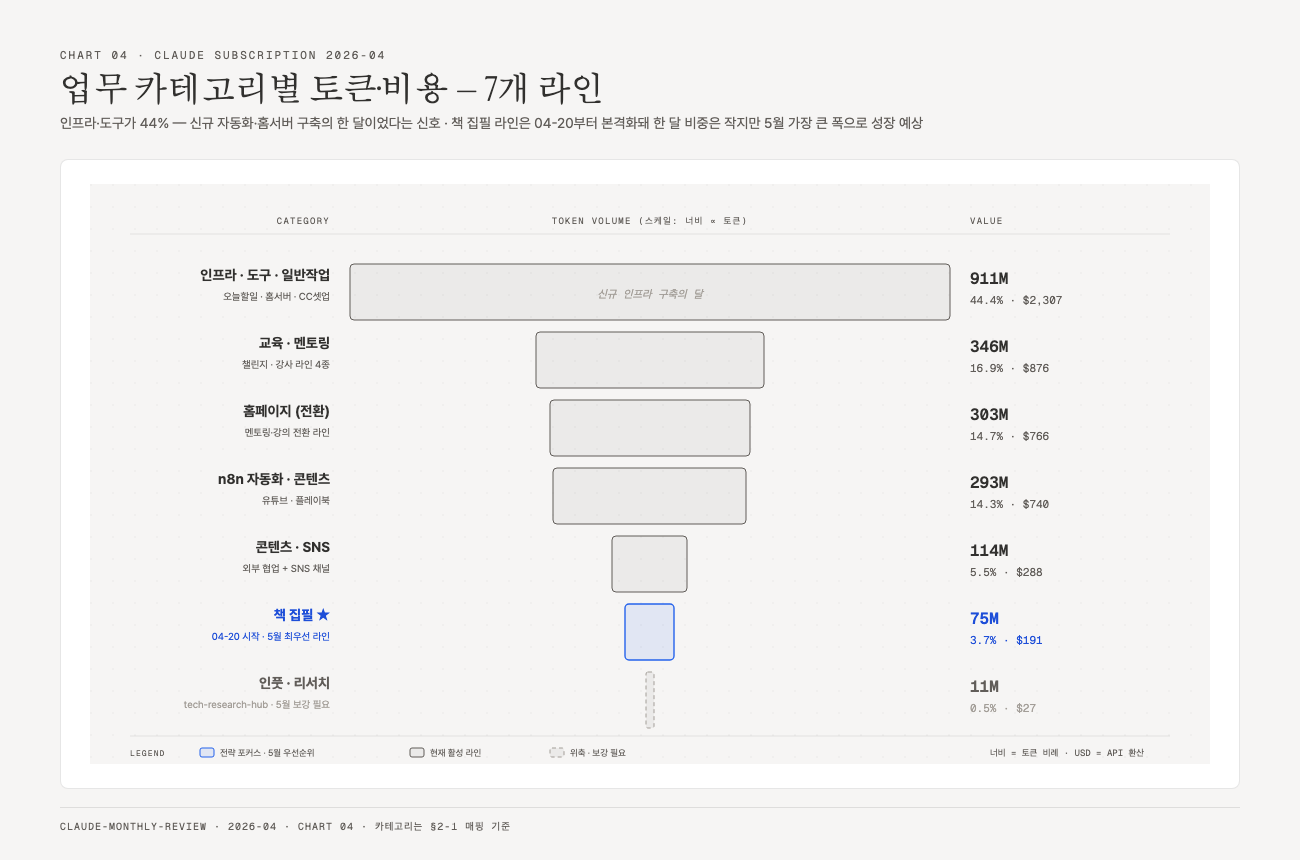
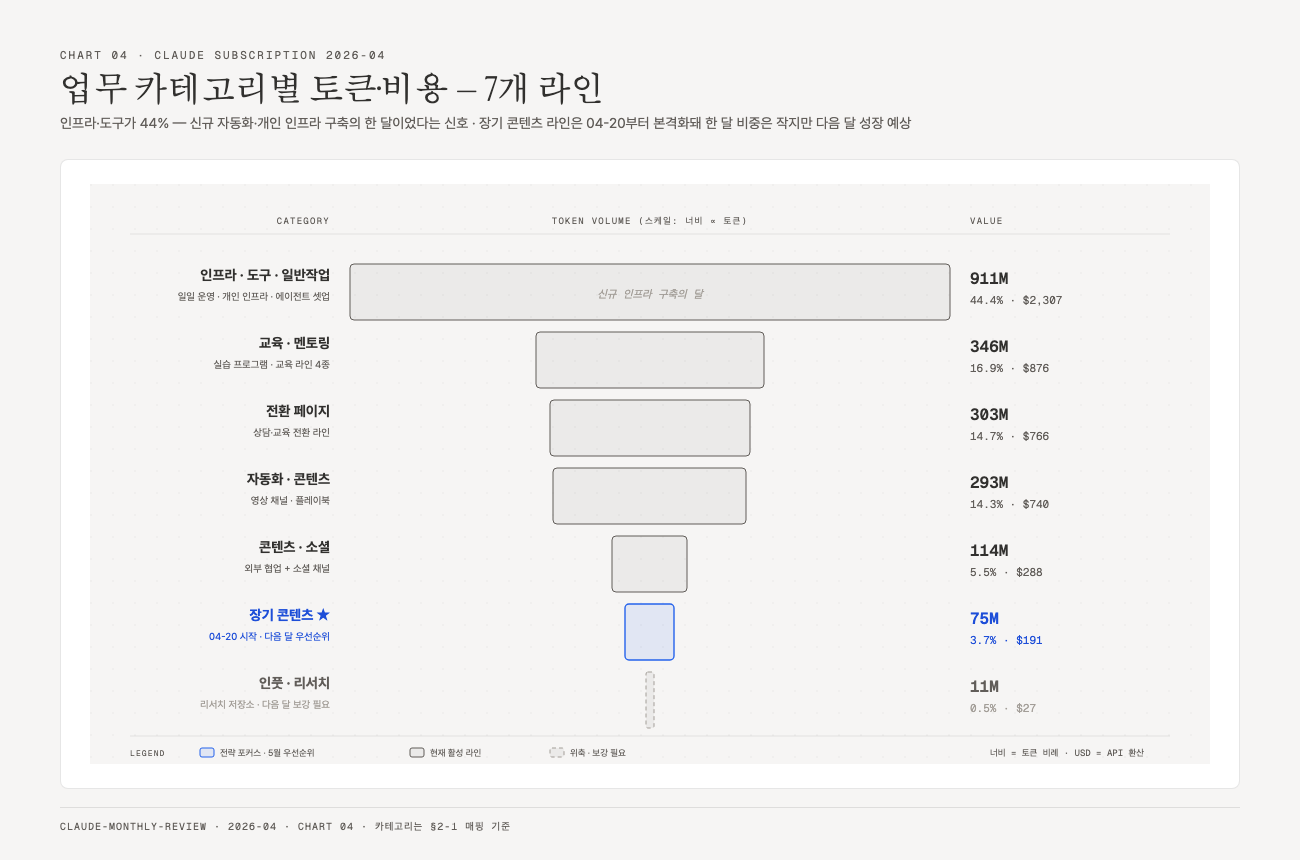
Further anonymize Claude monthly review

diff --git a/docs/diagrams/04-category-funnel.html b/docs/diagrams/04-category-funnel.html
@@ -22,7 +22,7 @@ svg{display:block;width:100%;height:auto;max-width:1120px;margin:0 auto}
 <div class="wrap">
   <p class="eyebrow">CHART 04 · CLAUDE SUBSCRIPTION 2026-04</p>
   <h1>업무 카테고리별 토큰·비용 — 7개 라인</h1>
-  <p class="sub">인프라·도구가 44% — 신규 자동화·홈서버 구축의 한 달이었다는 신호 · 책 집필 라인은 04-20부터 본격화돼 한 달 비중은 작지만 5월 가장 큰 폭으로 성장 예상</p>
+  <p class="sub">인프라·도구가 44% — 신규 자동화·개인 인프라 구축의 한 달이었다는 신호 · 장기 콘텐츠 라인은 04-20부터 본격화돼 한 달 비중은 작지만 다음 달 성장 예상</p>
   <div class="card">
     <svg viewBox="0 0 1120 580" xmlns="http://www.w3.org/2000/svg" role="img">
       <defs>
@@ -45,7 +45,7 @@ svg{display:block;width:100%;height:auto;max-width:1120px;margin:0 auto}
 
       <!-- Row 1: 인프라·도구·일반작업 911M / 44.4% / $2,307 — width 600 -->
       <text x="240" y="96" font-family="Pretendard,sans-serif" font-size="14" font-weight="700" fill="#31302e" text-anchor="end">인프라 · 도구 · 일반작업</text>
-      <text x="240" y="116" font-family="Pretendard,sans-serif" font-size="10" fill="#615d59" text-anchor="end">오늘할일 · 홈서버 · CC셋업</text>
+      <text x="240" y="116" font-family="Pretendard,sans-serif" font-size="10" fill="#615d59" text-anchor="end">일일 운영 · 개인 인프라 · 에이전트 셋업</text>
       <rect x="260" y="80" width="600" height="56" rx="4" fill="rgba(49,48,46,0.05)" stroke="#615d59" stroke-width="1"/>
       <text x="560" y="114" font-family="Geist Mono,monospace" font-size="11" fill="#a39e98" text-anchor="middle" font-style="italic">신규 인프라 구축의 달</text>
       <text x="880" y="100" font-family="Geist Mono,monospace" font-size="16" font-weight="600" fill="#31302e">911M</text>
@@ -53,42 +53,42 @@ svg{display:block;width:100%;height:auto;max-width:1120px;margin:0 auto}
 
       <!-- Row 2: 교육·멘토링 346M / 16.9% / $876 — width 228 -->
       <text x="240" y="164" font-family="Pretendard,sans-serif" font-size="14" font-weight="700" fill="#31302e" text-anchor="end">교육 · 멘토링</text>
-      <text x="240" y="184" font-family="Pretendard,sans-serif" font-size="10" fill="#615d59" text-anchor="end">챌린지 · 강사 라인 4종</text>
+      <text x="240" y="184" font-family="Pretendard,sans-serif" font-size="10" fill="#615d59" text-anchor="end">실습 프로그램 · 교육 라인 4종</text>
       <rect x="446" y="148" width="228" height="56" rx="4" fill="rgba(49,48,46,0.05)" stroke="#615d59" stroke-width="1"/>
       <text x="880" y="168" font-family="Geist Mono,monospace" font-size="16" font-weight="600" fill="#31302e">346M</text>
       <text x="880" y="188" font-family="Geist Mono,monospace" font-size="11" fill="#615d59">16.9% · $876</text>
 
-      <!-- Row 3: ggplab 홈페이지 (전환) 303M / 14.7% / $766 — width 200 -->
-      <text x="240" y="232" font-family="Pretendard,sans-serif" font-size="14" font-weight="700" fill="#31302e" text-anchor="end">홈페이지 (전환)</text>
-      <text x="240" y="252" font-family="Pretendard,sans-serif" font-size="10" fill="#615d59" text-anchor="end">멘토링·강의 전환 라인</text>
+      <!-- Row 3: 전환 페이지 303M / 14.7% / $766 — width 200 -->
+      <text x="240" y="232" font-family="Pretendard,sans-serif" font-size="14" font-weight="700" fill="#31302e" text-anchor="end">전환 페이지</text>
+      <text x="240" y="252" font-family="Pretendard,sans-serif" font-size="10" fill="#615d59" text-anchor="end">상담·교육 전환 라인</text>
       <rect x="460" y="216" width="200" height="56" rx="4" fill="rgba(49,48,46,0.05)" stroke="#615d59" stroke-width="1"/>
       <text x="880" y="236" font-family="Geist Mono,monospace" font-size="16" font-weight="600" fill="#31302e">303M</text>
       <text x="880" y="256" font-family="Geist Mono,monospace" font-size="11" fill="#615d59">14.7% · $766</text>
 
-      <!-- Row 4: n8n 자동화·콘텐츠 293M / 14.3% / $740 — width 193 -->
-      <text x="240" y="300" font-family="Pretendard,sans-serif" font-size="14" font-weight="700" fill="#31302e" text-anchor="end">n8n 자동화 · 콘텐츠</text>
-      <text x="240" y="320" font-family="Pretendard,sans-serif" font-size="10" fill="#615d59" text-anchor="end">유튜브 · 플레이북</text>
+      <!-- Row 4: 자동화·콘텐츠 293M / 14.3% / $740 — width 193 -->
+      <text x="240" y="300" font-family="Pretendard,sans-serif" font-size="14" font-weight="700" fill="#31302e" text-anchor="end">자동화 · 콘텐츠</text>
+      <text x="240" y="320" font-family="Pretendard,sans-serif" font-size="10" fill="#615d59" text-anchor="end">영상 채널 · 플레이북</text>
       <rect x="463" y="284" width="193" height="56" rx="4" fill="rgba(49,48,46,0.05)" stroke="#615d59" stroke-width="1"/>
       <text x="880" y="304" font-family="Geist Mono,monospace" font-size="16" font-weight="600" fill="#31302e">293M</text>
       <text x="880" y="324" font-family="Geist Mono,monospace" font-size="11" fill="#615d59">14.3% · $740</text>
 
-      <!-- Row 5: 콘텐츠·SNS 114M / 5.5% / $288 — width 75 -->
-      <text x="240" y="368" font-family="Pretendard,sans-serif" font-size="14" font-weight="700" fill="#31302e" text-anchor="end">콘텐츠 · SNS</text>
-      <text x="240" y="388" font-family="Pretendard,sans-serif" font-size="10" fill="#615d59" text-anchor="end">외부 협업 + SNS 채널</text>
+      <!-- Row 5: 콘텐츠·소셜 114M / 5.5% / $288 — width 75 -->
+      <text x="240" y="368" font-family="Pretendard,sans-serif" font-size="14" font-weight="700" fill="#31302e" text-anchor="end">콘텐츠 · 소셜</text>
+      <text x="240" y="388" font-family="Pretendard,sans-serif" font-size="10" fill="#615d59" text-anchor="end">외부 협업 + 소셜 채널</text>
       <rect x="522" y="352" width="75" height="56" rx="4" fill="rgba(49,48,46,0.05)" stroke="#615d59" stroke-width="1"/>
       <text x="880" y="372" font-family="Geist Mono,monospace" font-size="16" font-weight="600" fill="#31302e">114M</text>
       <text x="880" y="392" font-family="Geist Mono,monospace" font-size="11" fill="#615d59">5.5% · $288</text>
 
-      <!-- Row 6: 책 집필 75M / 3.7% / $191 — width 49 — FOCAL -->
-      <text x="240" y="436" font-family="Pretendard,sans-serif" font-size="14" font-weight="700" fill="#1D4ED8" text-anchor="end">책 집필 ★</text>
-      <text x="240" y="456" font-family="Pretendard,sans-serif" font-size="10" fill="#1D4ED8" text-anchor="end">04-20 시작 · 5월 최우선 라인</text>
+      <!-- Row 6: 장기 콘텐츠 75M / 3.7% / $191 — width 49 — FOCAL -->
+      <text x="240" y="436" font-family="Pretendard,sans-serif" font-size="14" font-weight="700" fill="#1D4ED8" text-anchor="end">장기 콘텐츠 ★</text>
+      <text x="240" y="456" font-family="Pretendard,sans-serif" font-size="10" fill="#1D4ED8" text-anchor="end">04-20 시작 · 다음 달 우선순위</text>
       <rect x="535" y="420" width="49" height="56" rx="4" fill="rgba(37,99,235,0.10)" stroke="#2563EB" stroke-width="1.4"/>
       <text x="880" y="440" font-family="Geist Mono,monospace" font-size="16" font-weight="600" fill="#1D4ED8">75M</text>
       <text x="880" y="460" font-family="Geist Mono,monospace" font-size="11" fill="#1D4ED8">3.7% · $191</text>
 
       <!-- Row 7: 인풋·리서치 11M / 0.5% / $27 — width 7 -->
       <text x="240" y="504" font-family="Pretendard,sans-serif" font-size="14" font-weight="700" fill="#615d59" text-anchor="end">인풋 · 리서치</text>
-      <text x="240" y="524" font-family="Pretendard,sans-serif" font-size="10" fill="#a39e98" text-anchor="end">tech-research-hub · 5월 보강 필요</text>
+      <text x="240" y="524" font-family="Pretendard,sans-serif" font-size="10" fill="#a39e98" text-anchor="end">리서치 저장소 · 다음 달 보강 필요</text>
       <rect x="556" y="488" width="8" height="56" rx="2" fill="rgba(49,48,46,0.05)" stroke="#a39e98" stroke-width="1" stroke-dasharray="4,3"/>
       <text x="880" y="508" font-family="Geist Mono,monospace" font-size="16" font-weight="600" fill="#615d59">11M</text>
       <text x="880" y="528" font-family="Geist Mono,monospace" font-size="11" fill="#a39e98">0.5% · $27</text>

diff --git a/examples/monthly-claude-review/2026-04-anonymized.md b/examples/monthly-claude-review/2026-04-anonymized.md
@@ -1,7 +1,7 @@
 # Claude 구독 요금제 한 달 사용 보고서 — 2026-04 (익명화 공개판)
 
 > **분석 기간**: 2026-04-02 ~ 2026-05-01 (KST, 30일)
-> **데이터 출처**: ① Claude Code 세션 JSONL 파싱 ② Claude Code 빌트인 `/insights`
+> **데이터 출처**: ① Claude 세션 JSONL 파싱 ② Claude 빌트인 `/insights`
 > **공개 정책**: 프로젝트명·고객명·계약 조건은 마스킹, 구조적 수치(토큰·시간·USD)는 원본 유지.
 > **저자**: 1인 사업자 (교육·콘텐츠·자동화 라인 운영)
 
@@ -70,7 +70,7 @@ Claude 구독 요금제 첫 한 달, **약 20.5억 토큰 / API 환산 $5,199 / 
 | claude-sonnet-4-6 | 2.4% (49M) | 879 | 31 | 6 |
 | claude-haiku-4-5 | 2.1% (44M) | 680 | 21 | 4 |
 
-> 4월 중반 Opus 4.7 출시 이후 **압도적 의존**. Sonnet/Haiku 비중이 4.5%에 불과해, "판단형 작업은 Opus, 실행형은 Sonnet/Codex"라는 본인 원칙이 데이터상으로는 잘 안 지켜지는 중.
+> 4월 중반 고비용 모델 업데이트 이후 **압도적 의존**. 중간·저비용 모델 비중이 4.5%에 불과해, "판단형 작업은 고비용 모델, 실행형은 중간 비용 모델이나 보조 에이전트"라는 본인 원칙이 데이터상으로는 잘 안 지켜지는 중.
 
 ### 1-4. 시간대 패턴 (KST)
 
@@ -94,14 +94,14 @@ Claude 구독 요금제 첫 한 달, **약 20.5억 토큰 / API 환산 $5,199 / 
 
 | 날짜 | 토큰(M) | 주요 활동 |
 |------|:---:|------|
-| **04-20** (월) | **263** | 출판사 도서 계약서 회신 작성 — 단일 최대일 |
-| 04-28 (화) | 213 | 챌린지 사이트 구축 + 콘텐츠 라인 |
-| 04-30 (목) | 205 | 도서 집필 + 홈페이지 + 강사 |
-| 04-22 (수) | 170 | 콘텐츠 라인 집중 |
-| 04-17 (목) | 153 | 챌린지 사이트 + 멘토링 |
-| 04-21 (화) | 145 | 도서 + 챌린지 + 강사 |
-| 04-23 (수) | 137 | 홈페이지 + 콘텐츠 + SNS |
-| 04-06 (월) | 100 | 외부 콘텐츠 협업 + 리서치 |
+| **04-20** (월) | **263** | 장기 콘텐츠 계약 검토 — 단일 최대일 |
+| 04-28 (화) | 213 | 교육용 웹앱 구축 + 콘텐츠 라인 |
+| 04-30 (목) | 205 | 장기 콘텐츠 제작 + 전환 페이지 + 교육 자료 |
+| 04-22 (수) | 170 | 콘텐츠 운영 라인 집중 |
+| 04-17 (목) | 153 | 교육용 웹앱 + 멘토링 |
+| 04-21 (화) | 145 | 장기 콘텐츠 + 교육용 웹앱 + 교육 자료 |
+| 04-23 (수) | 137 | 전환 페이지 + 콘텐츠 + 소셜 채널 |
+| 04-06 (월) | 100 | 외부 협업 + 리서치 |
 
 ---
 
@@ -112,46 +112,46 @@ Claude 구독 요금제 첫 한 달, **약 20.5억 토큰 / API 환산 $5,199 / 
 | 카테고리 | 토큰(M) | 점유율 | 비용($) |
 |---------|:---:|:---:|:---:|
 | **인프라·도구·일반작업 ((home))** | 911 | 44.4% | 2,307 |
-| **교육·멘토링** (강의 플랫폼 4종 + 챌린지) | 346 | 16.9% | 876 |
-| **메인 사업체 홈페이지 (전환)** | 303 | 14.7% | 766 |
-| **자동화 콘텐츠 (유튜브)** | 293 | 14.3% | 740 |
-| **콘텐츠·SNS (실행)** | 114 | 5.5% | 288 |
-| **도서 집필 (출판사 계약)** | 75 | 3.7% | 191 |
+| **교육·멘토링** (교육 채널 4종 + 실습 프로그램) | 346 | 16.9% | 876 |
+| **전환 페이지** | 303 | 14.7% | 766 |
+| **자동화 콘텐츠** | 293 | 14.3% | 740 |
+| **콘텐츠·소셜 채널** | 114 | 5.5% | 288 |
+| **장기 콘텐츠 제작** | 75 | 3.7% | 191 |
 | **인풋·리서치** | 11 | 0.5% | 27 |
 
-> **관찰**: 교육·멘토링(16.9%) + 자동화 콘텐츠(14.3%) + 홈페이지(14.7%) = 45.9%. 이 셋이 **수익 직결 라인**. 도서 집필(3.7%)은 계약 수령 이후에만 활성화돼 실제로는 후반 2주 집중.
+> **관찰**: 교육·멘토링(16.9%) + 자동화 콘텐츠(14.3%) + 전환 페이지(14.7%) = 45.9%. 이 셋이 **수익 직결 라인**. 장기 콘텐츠 제작(3.7%)은 계약 수령 이후에만 활성화돼 실제로는 후반 2주 집중.
 
 ### 2-2. 프로젝트 Top 16 상세
 
 | # | 프로젝트 (익명화) | 토큰(M) | 세션 | 활성(분) | 카테고리 |
 |:--:|------|:---:|:--:|:---:|------|
-| 1 | (home) — 일반/cross-cutting | 826.6 | 117 | 1,795 | 일반/인프라/오늘할일 |
-| 2 | 메인 사업체 홈페이지 | 302.7 | 11 | 511 | 홈페이지 (전환) |
-| 3 | 유튜브 콘텐츠 라인 | 285.8 | 11 | 379 | 자동화 콘텐츠 |
-| 4 | 도서 챌린지 사이트 | 218.0 | 7 | 277 | 강의 플랫폼 챌린지 |
-| 5 | 외부 콘텐츠 협업 | 104.0 | 39 | 281 | 외부 콘텐츠 |
-| 6 | 도서 집필 (출판사) | 75.4 | 6 | 194 | 책 (전략 포커스) |
-| 7 | 강의 플랫폼 A (헬스케어 SQL) | 64.5 | 4 | 170 | 강사 |
-| 8 | 기업교육 B (HK GPT) | 55.1 | 4 | 92 | 강사 |
-| 9 | 작업 오케스트레이션 도구 | 49.7 | 3 | 138 | 도구 |
-| 10 | 홈서버 SSH 세션 | 19.0 | 1 | 52 | 인프라 |
-| 11 | 프레젠테이션 도구 | 16.0 | 4 | 54 | 도구 |
-| 12 | 리서치 허브 | 10.7 | 3 | 51 | 리서치 |
-| 13 | SNS 채널 운영 | 9.7 | 5 | 35 | SNS 실행 |
-| 14 | 멘토링 플랫폼 C | 6.9 | 2 | 28 | 멘토링 |
-| 15 | 자동화 플레이북 | 6.7 | 2 | 10 | n8n 자동화 |
-| 16 | 단발 강의 D | 2.5 | 1 | 8 | 강사 (단발) |
+| 1 | 공통 작업 버킷 | 826.6 | 117 | 1,795 | 일반/인프라/일일 운영 |
+| 2 | 전환 페이지 프로젝트 | 302.7 | 11 | 511 | 전환 페이지 |
+| 3 | 자동화 콘텐츠 라인 | 285.8 | 11 | 379 | 자동화 콘텐츠 |
+| 4 | 교육용 웹앱 | 218.0 | 7 | 277 | 교육 프로그램 |
+| 5 | 외부 협업 콘텐츠 | 104.0 | 39 | 281 | 외부 콘텐츠 |
+| 6 | 장기 콘텐츠 제작 | 75.4 | 6 | 194 | 전략 포커스 |
+| 7 | 교육 채널 A | 64.5 | 4 | 170 | 교육 자료 |
+| 8 | 교육 채널 B | 55.1 | 4 | 92 | 교육 자료 |
+| 9 | 작업 관리 도구 | 49.7 | 3 | 138 | 도구 |
+| 10 | 로컬 인프라 세션 | 19.0 | 1 | 52 | 인프라 |
+| 11 | 발표 자료 도구 | 16.0 | 4 | 54 | 도구 |
+| 12 | 리서치 저장소 | 10.7 | 3 | 51 | 리서치 |
+| 13 | 소셜 채널 운영 | 9.7 | 5 | 35 | 소셜 실행 |
+| 14 | 멘토링 채널 C | 6.9 | 2 | 28 | 멘토링 |
+| 15 | 자동화 문서화 | 6.7 | 2 | 10 | 자동화 |
+| 16 | 단발 교육 D | 2.5 | 1 | 8 | 교육 자료 |
 
 ### 2-3. (home) 버킷 해부 — 40% 미분류 토큰의 정체
 
 `(home)` = 117 세션, 826M 토큰. 특정 프로젝트가 아닌 cross-cutting 작업들. 샘플링 결과:
 
-- **`/오늘할일` 데일리 브리핑** (반복) — 인증 이슈 디버깅이 다수
-- **홈서버 마이그레이션** — SSH/Tailscale/launchd/Discord 봇/worklog-server
-- **자동화 인벤토리·문서화** — 분산된 자동화 정리, Obsidian 업데이트
-- **마케팅 브레인스토밍** — 도서 예약판매 카피, 채널 우선순위
-- **CC 에코시스템 셋업** — Skill·플러그인·Codex 연동 등록
-- **일회성 평가·열람** — 외부 프로젝트 평가, 강의 제안 검토 등
+- **일일 운영 브리핑** (반복) — 인증 이슈 디버깅이 다수
+- **개인 인프라 마이그레이션** — 원격 접속, 스케줄러, 알림 봇, 업무 기록 서버 정비
+- **자동화 인벤토리·문서화** — 분산된 자동화 정리, 개인 지식관리 문서 업데이트
+- **마케팅 브레인스토밍** — 장기 콘텐츠 홍보 카피, 채널 우선순위
+- **에이전트 작업환경 셋업** — 스킬·플러그인·보조 에이전트 연동 등록
+- **일회성 평가·열람** — 외부 프로젝트 평가, 교육 제안 검토 등
 
 > **(home) 40%는 위험 신호**: 미분류 = 사후 분석 불가. 다음 달엔 _세션 시작 전 프로젝트 디렉토리에 들어가는 습관_을 만드는 게 첫 번째 액션.
 
@@ -163,11 +163,11 @@ Claude 구독 요금제 첫 한 달, **약 20.5억 토큰 / API 환산 $5,199 / 
 
 | 영역 | 세션 |
 |------|:--:|
-| Home Server & Automation Infrastructure | 15 |
+| Personal Infrastructure & Automation | 15 |
 | Content & Marketing Writing | 12 |
-| Lecture & Curriculum Preparation | 10 |
-| Daily Task Briefing Workflow | 10 |
-| Web Apps & Challenge Platforms | 8 |
+| Education Material Preparation | 10 |
+| Daily Operations Workflow | 10 |
+| Web Apps & Learning Programs | 8 |
 
 ### 3-2. 인터랙션 스타일 (요약)
 
@@ -175,7 +175,7 @@ Claude 구독 요금제 첫 한 달, **약 20.5억 토큰 / API 환산 $5,199 / 
 
 ### 3-3. 마찰 포인트 Top 3
 
-1. **인증·자격증명 취약성** — Gmail/Notion/Calendar/Discord 인증 만료가 데일리 루틴을 6회+ 중단시킴.
+1. **인증·자격증명 취약성** — 이메일, 문서, 캘린더, 알림 도구 인증 만료가 데일리 루틴을 6회+ 중단시킴.
 2. **첫 시도 스코프 오인식** (41건) — 사용자 의도와 첫 PR 사이의 갭. 사전 스코프 echo + 확인 부재.
 3. **버그 있는 첫 스크립트** (32건) — plist 경로, JSON 파서, 한글 인코딩 등 런타임에서야 드러나는 버그.
 
@@ -197,16 +197,16 @@ Claude 구독 요금제 첫 한 달, **약 20.5억 토큰 / API 환산 $5,199 / 
 
 ### 5-1. 가장 큰 사건 5
 
-1. **출판사와 도서 계약** (4월 중순). 후반 2주 토큰의 상당량이 계약 검토·미팅 아젠다·병행 전략 시뮬레이션으로 들어감. 04-20이 단일 최대 토큰 일자(263M)인 이유.
-2. **홈서버 24/7화 (Mac mini 활용)**. SSH/Tailscale/n8n/Discord 봇/launchd 스케줄러 마이그레이션. 자동화 인프라 영구화의 분기점.
-3. **유튜브 채널 본격 가동**. 286M 토큰을 6일에 압축 — 콘텐츠 제작 라인 하나가 통째로 새로 깔린 것.
-4. **챌린지 사이트 구축** (Supabase RLS + Auth Edge Functions + 로그인 UI, 218M 토큰). 챌린지 운영 인프라 완성.
-5. **신규 강사 계약 1건 타결**. 후속 2주에 커리큘럼 작업 64M 토큰.
+1. **장기 콘텐츠 계약 검토** (4월 중순). 후반 2주 토큰의 상당량이 계약 검토·미팅 아젠다·병행 전략 시뮬레이션으로 들어감. 04-20이 단일 최대 토큰 일자(263M)인 이유.
+2. **개인 자동화 인프라 상시화**. 원격 접속, 자동화 서버, 알림 봇, 스케줄러 마이그레이션. 자동화 인프라 영구화의 분기점.
+3. **콘텐츠 채널 본격 가동**. 286M 토큰을 6일에 압축 — 콘텐츠 제작 라인 하나가 통째로 새로 깔린 것.
+4. **교육용 웹앱 구축** (인증·권한·로그인 UI 포함, 218M 토큰). 교육 프로그램 운영 인프라 완성.
+5. **신규 교육 계약 1건 타결**. 후속 2주에 커리큘럼 작업 64M 토큰.
 
 ### 5-2. 정량의 그림자 — "왜 그렇게 많은 토큰이?"
 
 - **cache_read 95.5%** — 같은 프로젝트 컨텍스트를 반복적으로 끌어왔다는 신호.
-- **Opus 의존 95.5%** (4.7+4.6 합산) — 본인의 "실행형은 Sonnet/Codex" 원칙과 데이터가 어긋남. 기계적 위임이 부족.
+- **고비용 모델 의존 95.5%** — 본인의 "실행형은 중간 비용 모델이나 보조 에이전트" 원칙과 데이터가 어긋남. 기계적 위임이 부족.
 - **(home) 40%** — 프로젝트 디렉토리 컨벤션을 안 거치고 시작한 세션이 40%. 사후 분류·아카이브가 어려워짐.
 
 ---
@@ -215,29 +215,29 @@ Claude 구독 요금제 첫 한 달, **약 20.5억 토큰 / API 환산 $5,199 / 
 
 ### 6-1. 짧은 인사이트
 
-1. **Claude 구독 요금제는 "재고 작업"이 아니라 "신규 인프라 구축"에 가장 큰 가치를 만든다.** 한 달간 새 자동화·홈서버·홈페이지·챌린지 사이트가 동시 구축됐고, 단순 콘텐츠 생산보다 **시스템 영구화 작업**에 시간이 들어갔다. 1인 사업자에게 정액제 AI 도구의 진짜 ROI는 _영구 자산화_에서 나온다.
+1. **Claude 구독 요금제는 "재고 작업"이 아니라 "신규 인프라 구축"에 가장 큰 가치를 만든다.** 한 달간 새 자동화, 개인 인프라, 전환 페이지, 교육용 웹앱이 동시 구축됐고, 단순 콘텐츠 생산보다 **시스템 영구화 작업**에 시간이 들어갔다. 1인 사업자에게 정액제 AI 도구의 진짜 ROI는 _영구 자산화_에서 나온다.
 2. **마찰의 70%는 인증·스코프·첫 스크립트 버그.** 셋 다 사전 점검으로 회피 가능. 사후 디버깅 시간이 한 달 활성 시간의 추정 15~20%를 잡아먹은 것으로 보임.
-3. **모델 선택이 자동화돼 있지 않다.** Opus 의존 95% — Sonnet/Haiku/Codex로 이관해도 좋았을 실행형 작업이 Opus로 들어감.
+3. **모델 선택이 자동화돼 있지 않다.** 고비용 모델 의존 95% — 중간·저비용 모델이나 보조 에이전트로 이관해도 좋았을 실행형 작업이 고비용 모델로 들어감.
 
 ### 6-2. 다음 달 액션 5
 
 | # | 액션 | 근거 | 기대 효과 |
 |:-:|------|------|----------|
 | 1 | `/healthcheck` 스킬 생성 — 인증 사전체크 PASS/FAIL 1줄 출력 | 데일리 루틴 인증 마찰 6회/월 | 0~1회/월로 |
-| 2 | `CLAUDE.md`에 _Planning & Scope echo 의무_ + _docx 표는 GDocs 경유_ 섹션 추가 | 41 wrong_approach + docx 재작업 | 첫 시도 적중률 ↑ |
-| 3 | **Sonnet/Codex 위임 강화** — 200KB+ 텍스트, 20+ 파일 일괄 수정, 크롤링/스크립트 실행을 Opus 금지선에 추가 | Opus 95% 의존 | 토큰 30~40% 절감 가능 |
+| 2 | 공용 에이전트 가이드에 _Planning & Scope echo 의무_ + _문서 표 변환 우회 규칙_ 섹션 추가 | 41 wrong_approach + 문서 재작업 | 첫 시도 적중률 ↑ |
+| 3 | **경량 모델·보조 에이전트 위임 강화** — 200KB+ 텍스트, 20+ 파일 일괄 수정, 크롤링/스크립트 실행을 고비용 모델 금지선에 추가 | 고비용 모델 95% 의존 | 토큰 30~40% 절감 가능 |
 | 4 | **(home) 버킷 청산 캠페인** — 매주 금요일 (home) 세션을 사후 프로젝트로 분류해 옮기기 | 40% 미분류 | 다음 달 분석 정밀도 ↑ |
-| 5 | **도서 집필 토큰 예산 설정** — 단독으로 200~300M 토큰 별도 트래킹 | 4월 75M으론 마감 불가 | 진척률 가시화 |
+| 5 | **장기 콘텐츠 토큰 예산 설정** — 단독으로 200~300M 토큰 별도 트래킹 | 4월 75M으론 마감 불가 | 진척률 가시화 |
 
 ---
 
 ## 부록 — 1인 사업자가 가져갈 만한 베이스라인
 
-- **API 환산 비용 분포** — Opus 95%+ 비중은 일반적이지 않음. 보통 1인 사업자는 Sonnet 30~50% 비중을 권장.
+- **API 환산 비용 분포** — 고비용 모델 95%+ 비중은 일반적이지 않음. 보통 1인 사업자는 중간 비용 모델 30~50% 비중을 권장.
 - **활성 시간 67.9h / 월** — 매일 평균 2.3시간을 "Claude와 협업하는 시간"으로 본다. 워크로그(전체 작업 시간)와 비교하면 _AI 협업 비중_이 나온다.
 - **카테고리 비중** — 인프라·도구 44%는 _초기 셋업기_에 정상. 안정기엔 콘텐츠·전환 라인이 주가 되어야 한다.
 - **(home) 비중 40%** — 미분류는 위험 신호. 10% 이하로 떨어뜨리는 것이 다음 단계.
 
 ---
 
-> **출처 / 도구**: 본 보고서는 `~/.claude/projects/` 의 세션 JSONL을 KST 기준으로 파싱하고 Claude Code 빌트인 `/insights` 결과를 결합해 작성. 자동화 스크립트는 매월 결제일 기준으로 직전 한 달을 자동 집계한다.
+> **출처 / 도구**: 본 보고서는 로컬 Claude 세션 JSONL을 KST 기준으로 파싱하고 Claude 빌트인 `/insights` 결과를 결합해 작성. 자동화 스크립트는 매월 결제일 기준으로 직전 한 달을 자동 집계한다.
